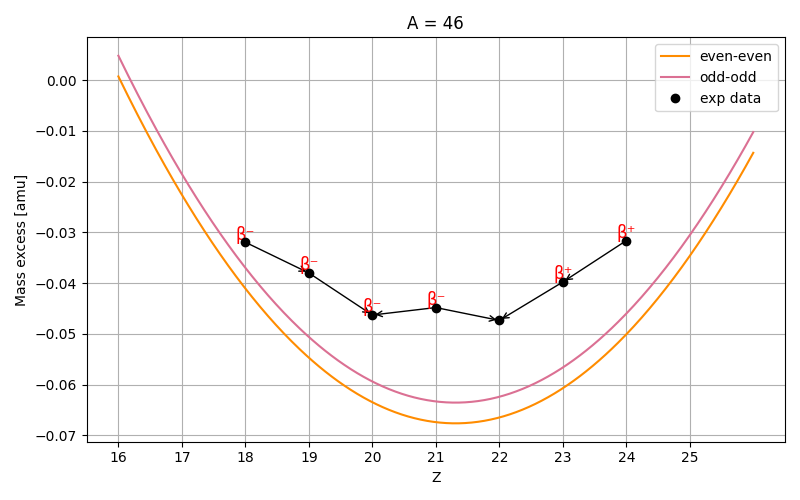
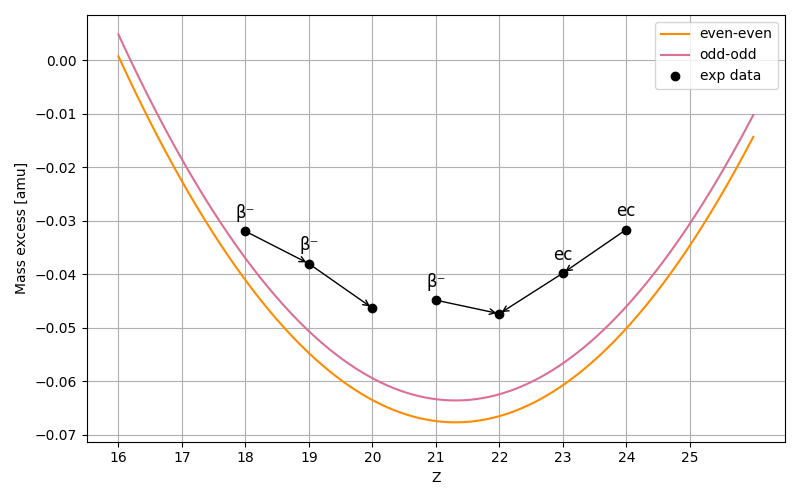
Final version for A even = 46, correct decays

diff --git a/Subatomic/problem_7/Aeven46.py b/Subatomic/problem_7/Aeven46.py
@@ -2,53 +2,43 @@ import numpy as np
 import matplotlib.pyplot as plt
 
 
-A = 46                      #mass number
+A = 46                      # mass number
 
-amu_MeV = 931.5             #1 amu = 931.5 MeV
+amu_MeV = 931.5             # 1 amu = 931.5 MeV
 
-#parameters converted from MeV to amu
-a_v = 15.753/amu_MeV        #15.753 MeV * uma / 931.5 MeV    
+# parameters converted from MeV to amu
+a_v = 15.753/amu_MeV        # e.g: 15.753 MeV * uma / 931.5 MeV    
 a_s = 17.804/amu_MeV
 a_c = 0.7103/amu_MeV
 a_sym = 23.69/amu_MeV
 a_p = 33.6/amu_MeV
 
 
-mp = 938.27/amu_MeV   #proton's mass converted from MeV to amu
-mn = 939.56/amu_MeV   #neutron's mass converted from MeV to amu
-
-
-def pairing(A, Z):                      #pairing term for the formula
-    N = A - Z                           
-    if A % 2 == 1:                      #if A is odd, delta=0
-        return 0                        
-    elif Z % 2 == 0 and N % 2 == 0:     #A even: even-even
-        return +a_p / A**(3/4)      
-    elif Z % 2 == 1 and N % 2 == 1:     #A even: odd-odd
-        return -a_p / A**(3/4)
+mp = 938.27/amu_MeV   # proton's mass converted from MeV to amu
+mn = 939.56/amu_MeV   # neutron's mass converted from MeV to amu
     
 
-def mass_excess(Z, A, parity):                              
+def mass_excess(Z, A, parity):              # the mass formula indicated in the slides                
     alpha=mn-a_v+a_s/(A**(1/3))+a_sym               
     beta = (mn-mp)+4*a_sym+a_c/(A**(1/3))
     gamma=4*a_sym/(A)+a_c/(A**(1/3))
 
-    if parity == 'even-even':
-        delta = +a_p / A**(3/4)
-    elif parity == 'odd-odd':
+    if parity == 'even-even':               # for A even: even-even pairing
+        delta = +a_p / A**(3/4)             
+    elif parity == 'odd-odd':               # for A even: odd-odd pairing
         delta = -a_p / A**(3/4)
     else:
-        delta = 0
+        delta = 0                           # for A odd
 
-    M = alpha*A-beta*Z+gamma*(Z**2)-delta           #mass formula
-    return M-A                                      #mass excess (in amu)
+    M = alpha*A-beta*Z+gamma*(Z**2)-delta           
+    return M-A                                      # mass excess (in amu)
 
 
-Z_vals = np.linspace(16, 26, 400)       #some values to put into the formula
-mass_vals_even = [mass_excess(Z, A, 'even-even') for Z in Z_vals] #even-even
-mass_vals_odd = [mass_excess(Z, A, 'odd-odd') for Z in Z_vals]    #odd-odd
+Z_vals = np.linspace(16, 26, 400)       # some values to put into the formula
+mass_vals_even = [mass_excess(Z, A, 'even-even') for Z in Z_vals] # even-even
+mass_vals_odd = [mass_excess(Z, A, 'odd-odd') for Z in Z_vals]    # odd-odd
 
-#experimental data collected from https://www-nds.iaea.org/ and converted from keV to amu
+#experimental data collected from https://www-nds.iaea.org/, converted from keV to MeV and then to amu
 Z_exp = np.array([18, 19, 20, 21, 22, 23, 24])
 mass_exp_amu = np.array([-29.77, -35.41, -43.13, -41.76, -44.12, -37.07, -29.47]) / amu_MeV
 
@@ -59,10 +49,12 @@ plt.plot(Z_vals, mass_vals_odd, label='odd-odd', linestyle='-', color='paleviole
 plt.plot(Z_exp, mass_exp_amu,'ko', zorder=5, label='exp data')
 
 
-for i in range(len(Z_exp) - 1):                 #to plot the transitions
+for i in range(len(Z_exp) - 1):                 # to plot the transitions
     z0, z1 = Z_exp[i], Z_exp[i+1]
     y0, y1 = mass_exp_amu[i], mass_exp_amu[i+1]
     if abs(z1 - z0) == 1:
+        if (z0 == 20 and z1 == 21):         
+            continue                            # I skip the arrow because Sc doesnt decay to Ca
         if y1 < y0:
             #Bminus
             plt.annotate('', xy=(z1, y1), xytext=(z0, y0),
@@ -73,19 +65,18 @@ for i in range(len(Z_exp) - 1):                 #to plot the transitions
                          arrowprops=dict(arrowstyle="->", color='black'))
 
 beta_transitions = {
-    18: 'β⁻', 19: 'β⁻', 20: 'β⁻',
-    21: 'β⁻', 23: 'β⁺', 24: 'β⁺'
+    18: 'β⁻', 19: 'β⁻',
+    21: 'β⁻', 23: 'ec', 24: 'ec'
 }
 for z, label in beta_transitions.items():
     idx = np.where(Z_exp == z)[0]
     if len(idx) > 0:
         y = mass_exp_amu[idx[0]]
-        plt.text(z, y + 0.0005, label, fontsize=12, color='red', ha='center')
+        plt.text(z, y + 0.0025, label, fontsize=12, color='black', ha='center')
 
 plt.xticks(np.arange(16, 26, 1)) 
 plt.xlabel("Z")
 plt.ylabel("Mass excess [amu]")
-plt.title("A = 46")
 plt.grid(True)
 plt.legend()
 plt.tight_layout()
